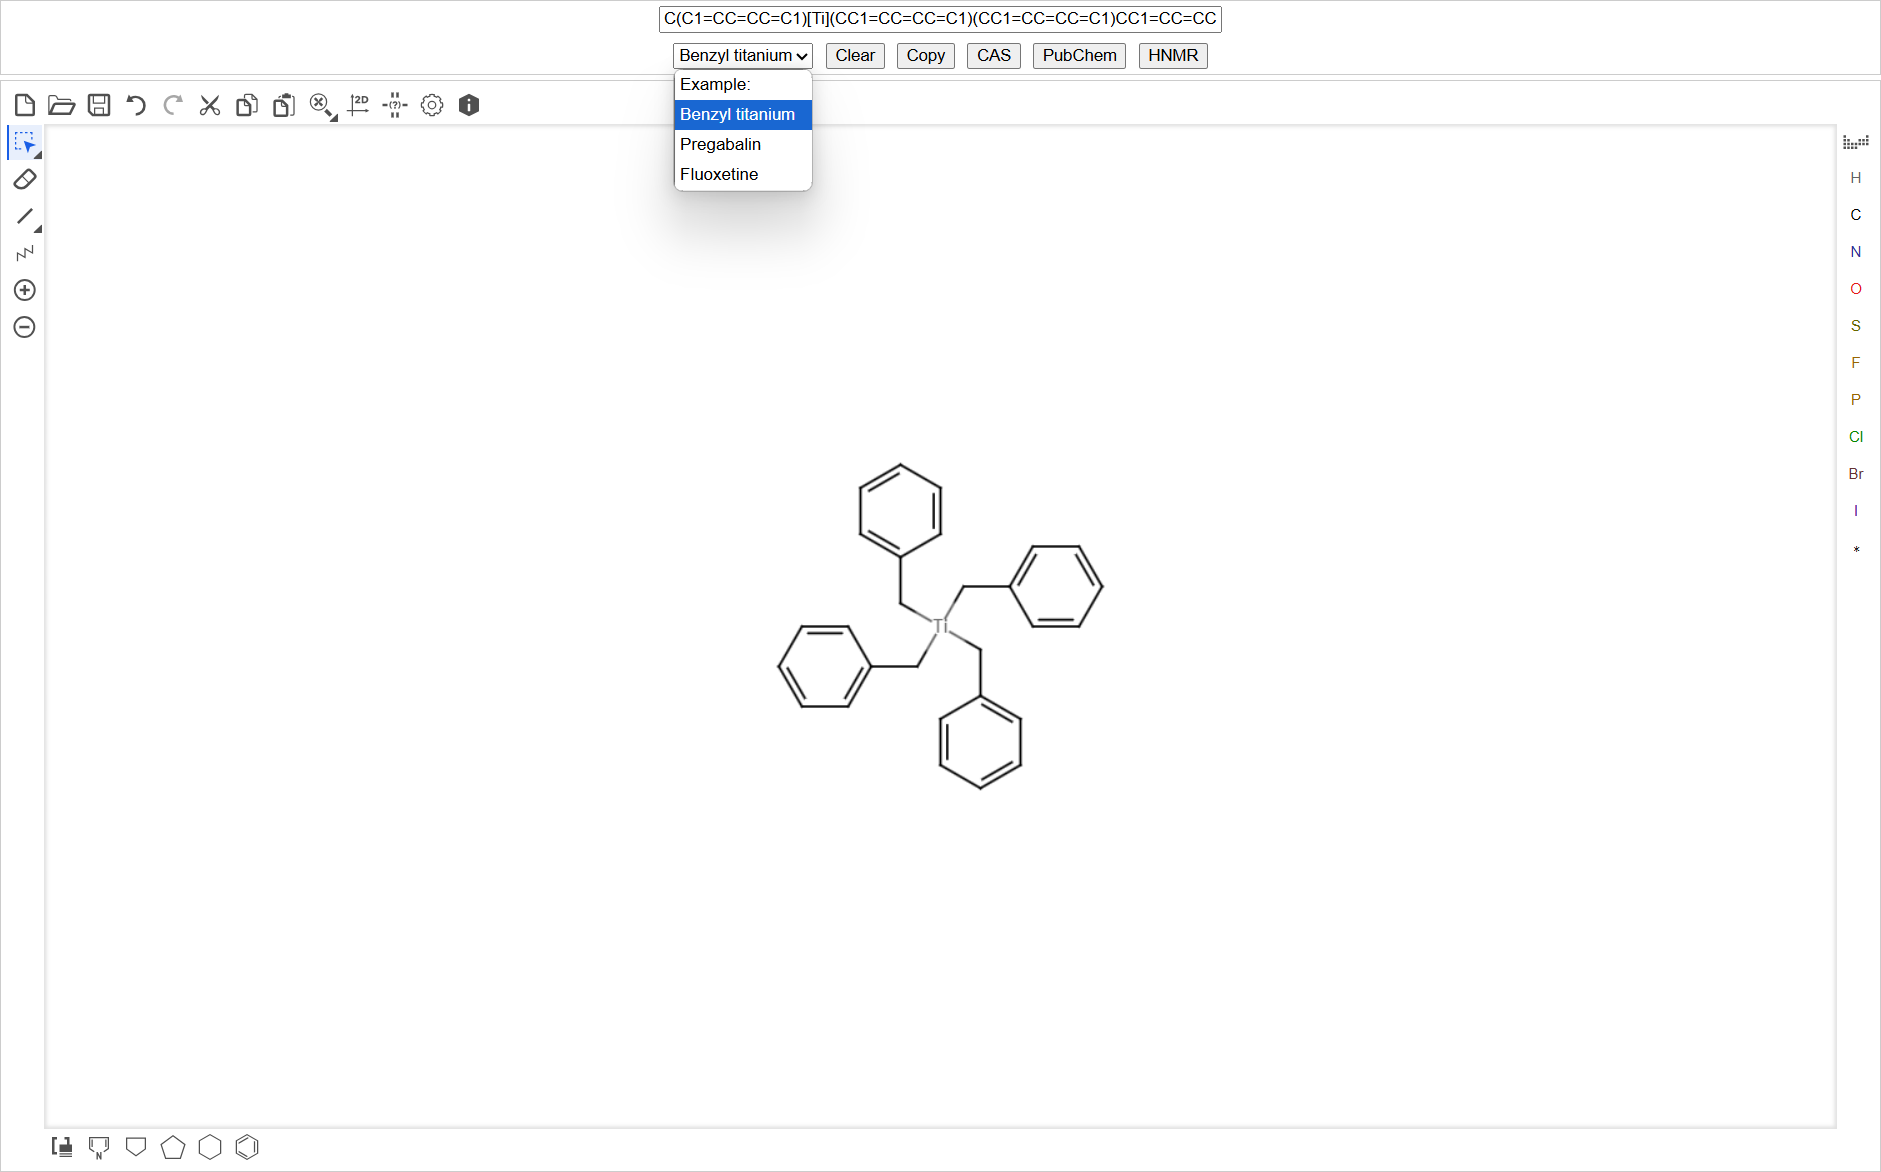
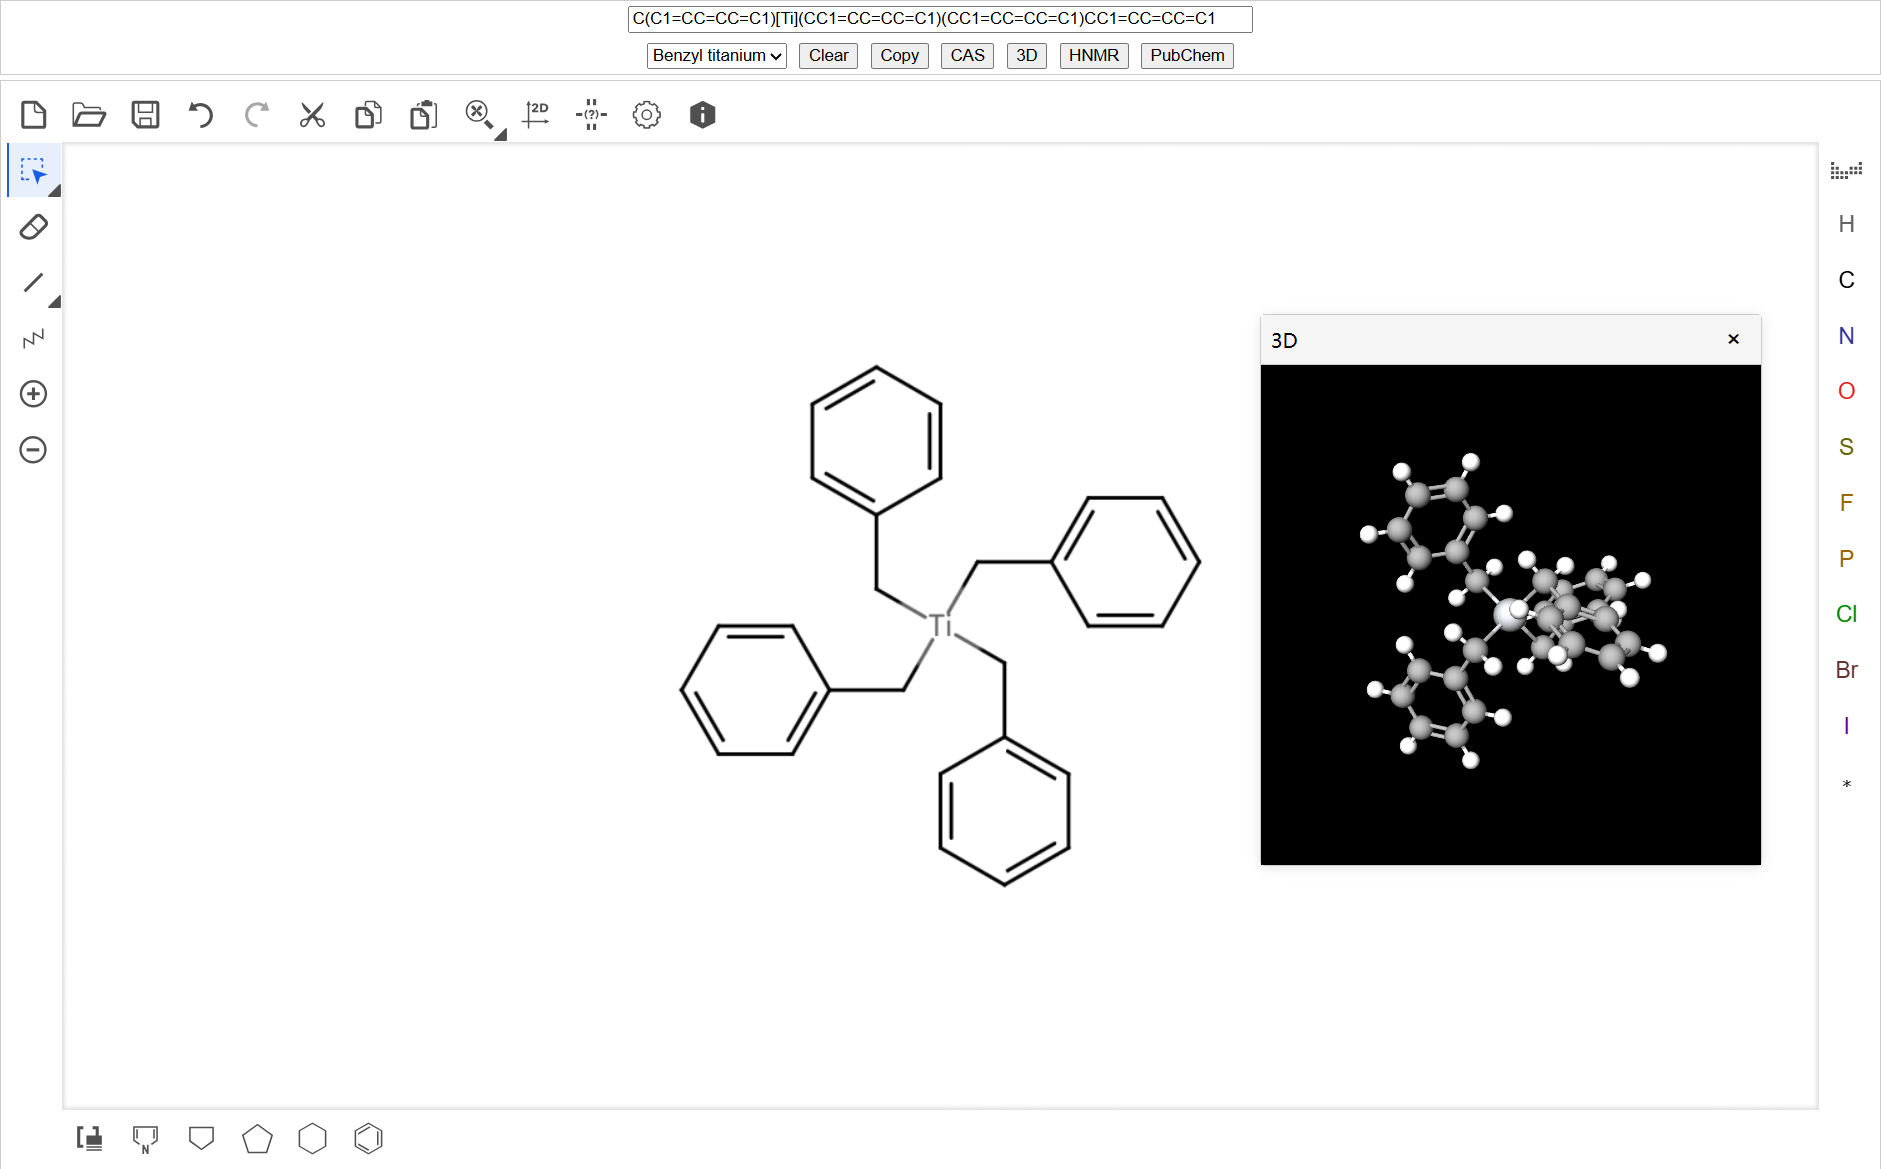
Add 3D

diff --git a/src/components/ControlPanel.vue b/src/components/ControlPanel.vue
@@ -19,8 +19,22 @@
         <button @click="handleClear">Clear</button>
         <button @click="handleCopy">Copy</button>
         <button @click="handleGetCAS">CAS</button>
-        <button @click="handlePubChem">PubChem</button>
+        <button @click="handle3DView">3D</button>
         <button @click="handleHNMR">HNMR</button>
+        <button @click="handlePubChem">PubChem</button>
+      </div>
+    </div>
+    <div v-if="show3DView" class="molview-container">
+      <div class="molview-header">
+        <span>3D</span>
+        <button @click="close3DView" class="close-button">×</button>
+      </div>
+      <div class="view-content">
+        <iframe 
+          :src="molviewUrl" 
+          frameborder="0" 
+          class="molview-frame"
+        ></iframe>
       </div>
     </div>
   </div>
@@ -32,7 +46,20 @@ export default {
   data() {
     return {
       smilesValue: '',
-      iframeOrigin: null
+      iframeOrigin: null,
+      show3DView: false,
+      molviewUrl: ''
+    }
+  },
+  watch: {
+    smilesValue: {
+      handler(newValue) {
+        if (this.show3DView) {
+          const smiles = newValue || 'C(C1=CC=CC=C1)[Ti](CC1=CC=CC=C1)(CC1=CC=CC=C1)CC1=CC=CC=C1';
+          this.molviewUrl = `https://embed.molview.org/v1/?mode=balls&smiles=${encodeURIComponent(smiles)}`;
+        }
+      },
+      immediate: true
     }
   },
   mounted() {
@@ -84,10 +111,6 @@ export default {
           { type: 'clearSketch' },
           '*'
         );
-      }
-      const selectElement = document.querySelector('.example-select');
-      if (selectElement) {
-        selectElement.value = '';
       }
     },
 
@@ -193,6 +216,16 @@ export default {
         console.error('获取 CAS 时出错:', error);
         alert('获取 CAS 失败，请检查网络连接');
       }
+    },
+
+    async handle3DView() {
+      const smiles = this.smilesValue || 'C(C1=CC=CC=C1)[Ti](CC1=CC=CC=C1)(CC1=CC=CC=C1)CC1=CC=CC=C1';
+      this.molviewUrl = `https://embed.molview.org/v1/?mode=balls&smiles=${encodeURIComponent(smiles)}`;
+      this.show3DView = true;
+    },
+
+    close3DView() {
+      this.show3DView = false;
     }
   }
 }
@@ -218,7 +251,7 @@ export default {
 
 .smiles-input {
   width: 100%;
-  max-width: 450px;
+  max-width: 500px;
   box-sizing: border-box;
 }
 
@@ -229,7 +262,132 @@ export default {
   flex-wrap: wrap;
 }
 
-@media screen and (max-width: 460px) {
+.molview-container {
+  position: fixed;
+  top: 50%;
+  left: 80%;
+  transform: translate(-50%, -50%);
+  background: white;
+  border: 1px solid #ccc;
+  border-radius: 4px;
+  box-shadow: 0 2px 10px rgba(0, 0, 0, 0.1);
+  z-index: 1000;
+}
+
+.molview-header {
+  display: flex;
+  justify-content: space-between;
+  align-items: center;
+  padding: 8px;
+  background: #f5f5f5;
+  border-bottom: 1px solid #ccc;
+}
+
+.view-toggle {
+  display: flex;
+  gap: 4px;
+}
+
+.view-toggle button {
+  padding: 4px 12px;
+  border: 1px solid #ccc;
+  background: white;
+  cursor: pointer;
+  border-radius: 4px;
+}
+
+.view-toggle button.active {
+  background: #007bff;
+  color: white;
+  border-color: #0056b3;
+}
+
+.view-content {
+  width: 400px;
+  height: 400px;
+  display: flex;
+  align-items: center;
+  justify-content: center;
+}
+
+.close-button {
+  background: none;
+  border: none;
+  font-size: 20px;
+  cursor: pointer;
+  padding: 0 8px;
+}
+
+.close-button:hover {
+  color: #666;
+}
+
+.molview-frame {
+  width: 100%;
+  height: 100%;
+  border: none;
+}
+
+@media screen and (max-width: 1024px) {
+  .molview-container {
+    position: fixed;
+    top: 50%;
+    left: 75%;
+    transform: translate(-50%, -50%);
+    width: 325px;
+    height: 325px;
+    background: white;
+    border: 1px solid #ccc;
+    border-radius: 4px;
+    box-shadow: 0 2px 10px rgba(0, 0, 0, 0.1);
+    z-index: 1000;
+  }
+
+  .view-content {
+    width: 100%;
+    height: calc(100% - 40px);
+  }
+
+  .molview-header {
+    padding: 4px 8px;
+  }
+
+  .close-button {
+    padding: 0 4px;
+  }
+}
+
+@media screen and (max-width: 600px) {
+
+  .molview-container {
+    position: fixed;
+    top: 75%;
+    left: 50%;
+    transform: translate(-50%, -50%);
+    width: 300px;
+    height: 300px;
+    background: white;
+    border: 1px solid #ccc;
+    border-radius: 4px;
+    box-shadow: 0 2px 10px rgba(0, 0, 0, 0.1);
+    z-index: 1000;
+  }
+
+  .view-content {
+    width: 100%;
+    height: calc(100% - 40px);
+  }
+
+  .molview-header {
+    padding: 4px 8px;
+  }
+
+  .close-button {
+    padding: 0 4px;
+  }
+}
+
+@media screen and (max-width: 500px) {
   .example-select {
     width: 100%;
   }

diff --git a/README.md b/README.md
@@ -5,11 +5,9 @@
 - smiles与结构式互相转换
 - PubChem搜索
 - HNMR搜索
-- 获取CAS
-
-## 新增
-
 - Example:
     - Benzyl titanium
     - Pregabalin
-    - Fluoxetine 
+    - Fluoxetine
+- 获取CAS
+- 3D与面板，smiles实时转换
